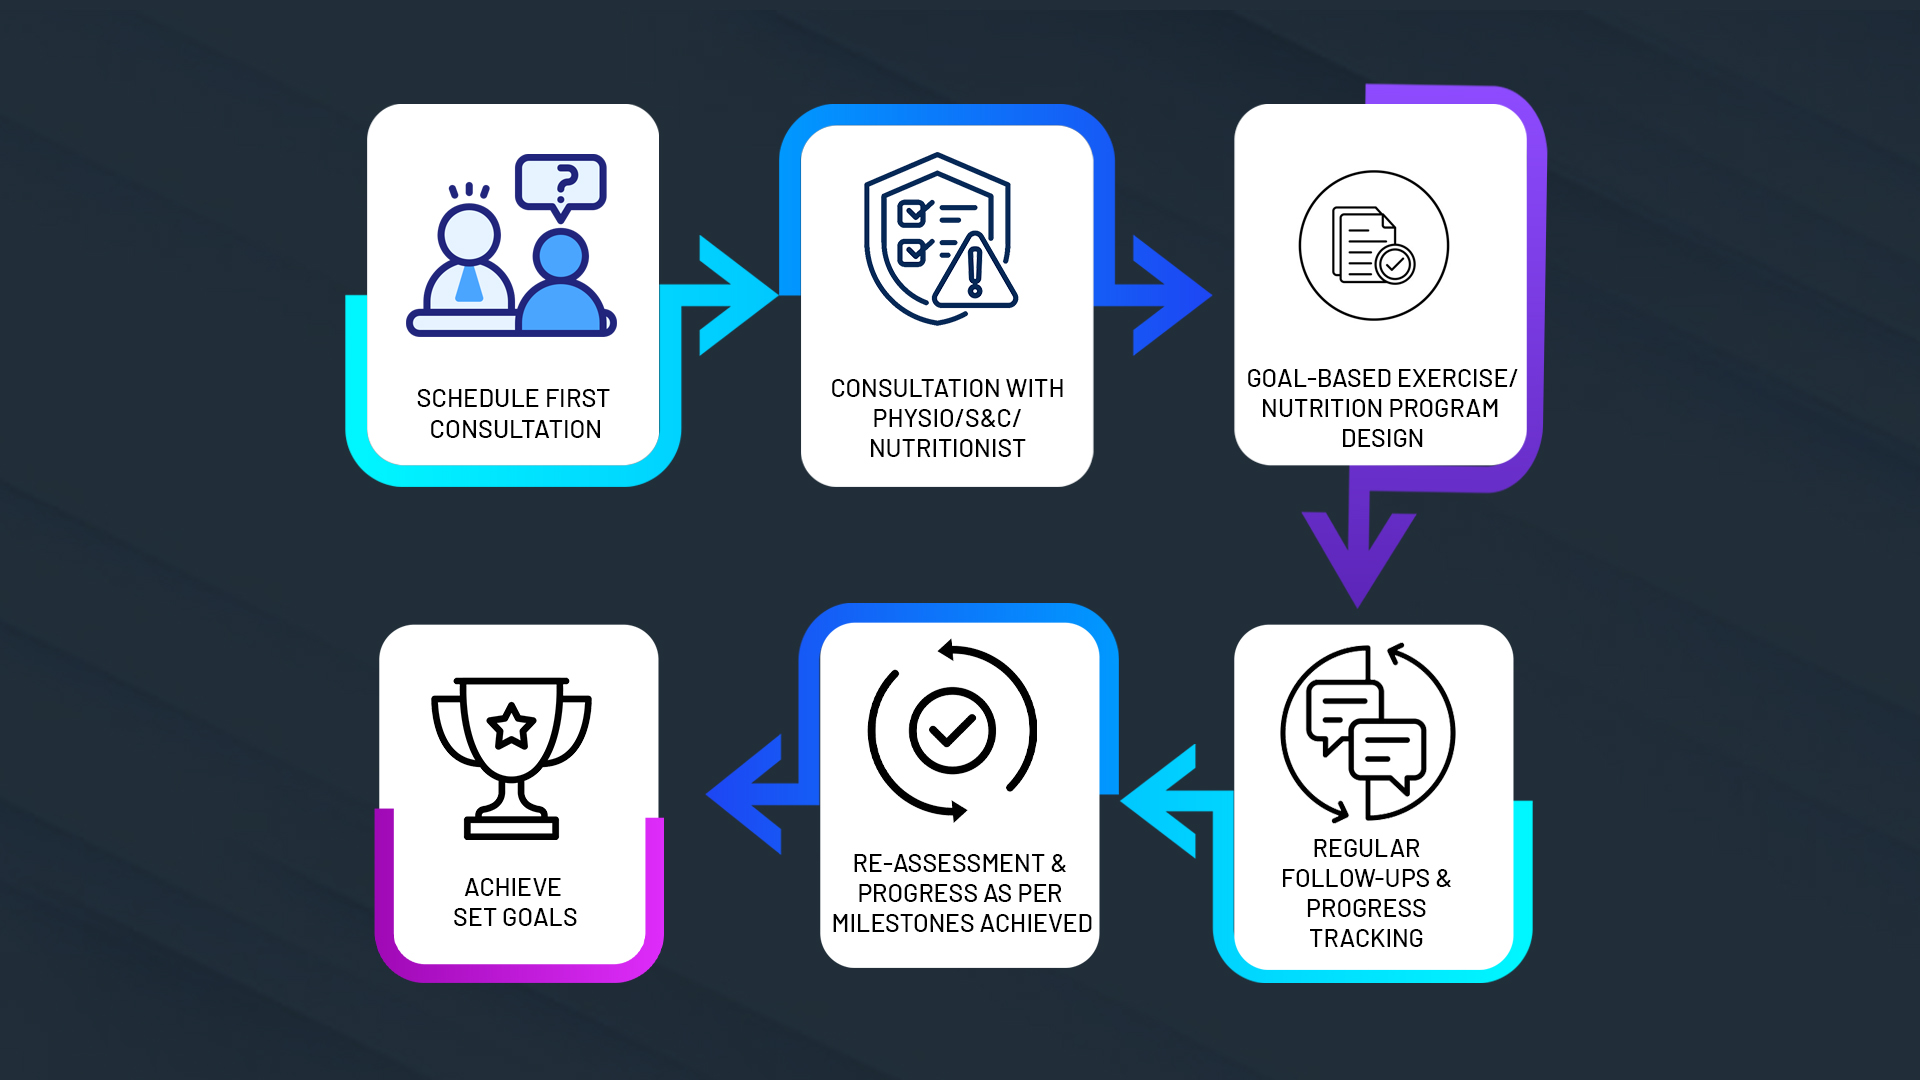
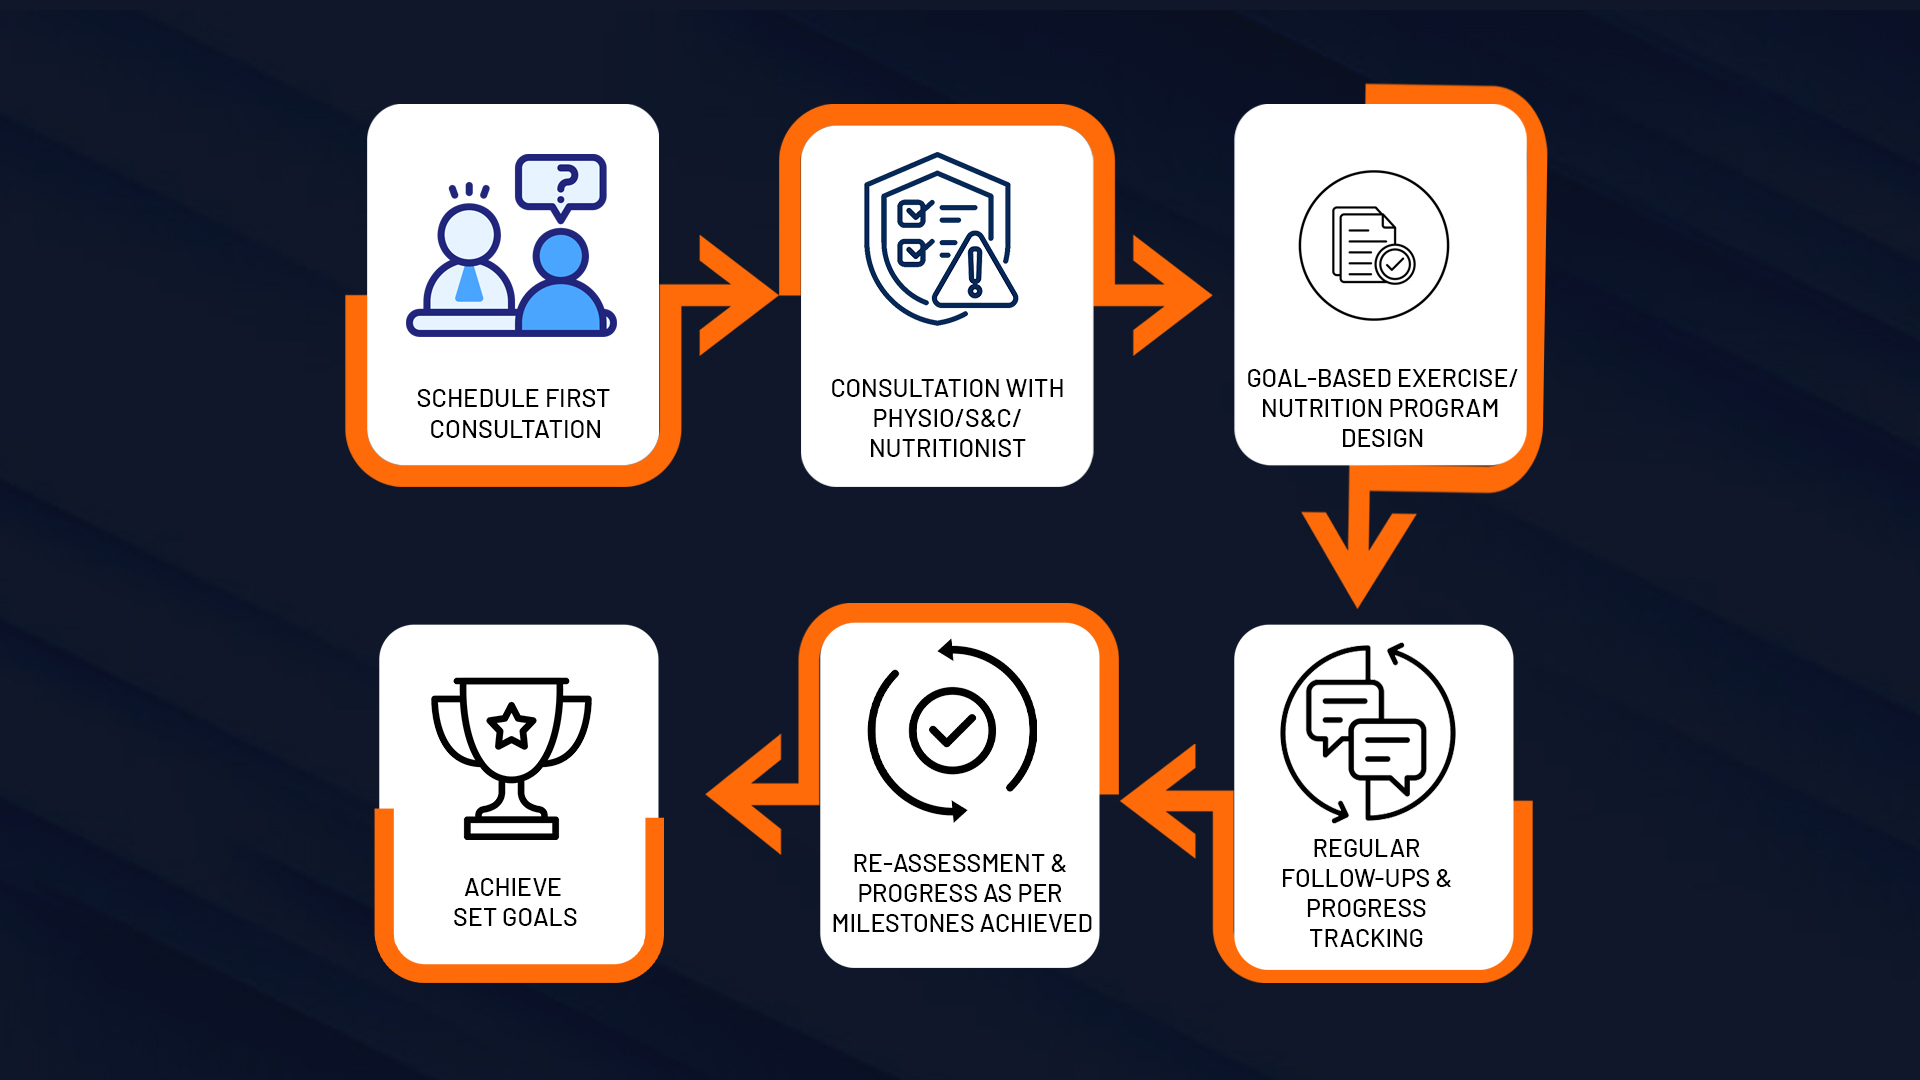
first

diff --git a/corporate-wellness.html b/corporate-wellness.html
@@ -131,24 +131,24 @@
     }
 
     #clients .clients-track>span {
-      min-width: 150px !important;
-      padding-top: 0.6rem !important;
-      padding-bottom: 0.6rem !important;
+      min-width: 230px !important;
+      padding-top: 1.05rem !important;
+      padding-bottom: 1.05rem !important;
       border-right-width: 0 !important;
     }
 
     #clients .clients-track img {
-      height: 2.6rem !important;
+      height: 4.2rem !important;
     }
 
     @media (min-width: 640px) {
       #clients .clients-track>span {
-        min-width: 205px !important;
-        padding: 0.85rem 2rem !important;
+        min-width: 340px !important;
+        padding: 1.4rem 3rem !important;
       }
 
       #clients .clients-track img {
-        height: 3.6rem !important;
+        height: 6rem !important;
       }
     }
 
@@ -462,21 +462,21 @@
       <div class="relative z-10 mx-auto w-full max-w-[1280px]">
         <div class="grid w-full min-w-0 items-center justify-items-center gap-8 text-center lg:gap-10">
 
-          <div class="w-full max-w-[760px] min-w-0 rounded-2xl bg-[rgba(10,14,30,0.42)] px-3 py-4 text-center backdrop-blur-[1px] sm:bg-transparent sm:px-0 sm:py-0 sm:backdrop-blur-0">
-            <h1 class="mb-2 text-[clamp(1.15rem,5.2vw,1.9rem)] font-extrabold uppercase leading-[1.2] tracking-[0.02em] text-white sm:text-[clamp(1.3rem,2.6vw,1.9rem)]">
+          <div class="w-full max-w-[860px] min-w-0 rounded-2xl bg-[rgba(10,14,30,0.42)] px-4 py-5 text-center backdrop-blur-[1px] sm:bg-transparent sm:px-0 sm:py-0 sm:backdrop-blur-0">
+            <h1 class="mb-1 mx-auto max-w-[760px] text-[clamp(1.8rem,4vw,3.2rem)] font-extrabold leading-[0.9] tracking-[-0.02em] text-white drop-shadow-[0_2px_18px_rgba(0,0,0,0.3)]">
               <span class="brand-word text-white">PREHAB</span><br>
-              <span class="text-primary">Corporate Health &amp; Wellness</span>
+              <span class="mt-2 block font-normal text-[#FE6B09] whitespace-nowrap">Corporate Health &amp; Wellness</span>
             </h1>
-            <p class="mx-auto mb-5 max-w-[620px] text-[0.82rem] font-medium leading-[1.45] text-white drop-shadow-[0_1px_10px_rgba(0,0,0,0.35)] sm:text-[0.9rem]">
+            <p class="mx-auto mb-6 max-w-[760px] text-[1.02rem] leading-[1.6] text-white/90 drop-shadow-[0_1px_12px_rgba(22,4,4,0.25)] sm:text-[1.08rem]">
               <span class="brand-word font-bold tracking-wide text-white">PREHAB</span> partners with organisations that want more than a brochure programme — culture change, healthier bodies, and teams that feel ready for the work ahead.
             </p>
             <div class="flex flex-col items-center justify-center gap-3 sm:flex-row sm:gap-4">
               <a href="tel:+918867205650"
-                class="inline-flex w-full max-w-[320px] min-h-[52px] items-center justify-center rounded-full bg-primary px-6 text-[0.95rem] font-bold text-white shadow-glow transition hover:-translate-y-[2px] hover:bg-primaryDark sm:w-auto">
+                class="inline-flex w-full max-w-[360px] min-h-[58px] items-center justify-center rounded-full bg-primary px-8 text-[1.05rem] font-bold text-white shadow-glow transition hover:-translate-y-[2px] hover:bg-primaryDark sm:w-auto">
                 Call +91 88672 05650
               </a>
               <a href="#what-is"
-                class="inline-flex w-full max-w-[320px] min-h-[52px] items-center justify-center rounded-full border border-white/40 bg-white/10 px-6 text-[0.95rem] font-bold text-white backdrop-blur-sm transition hover:bg-white/20 sm:w-auto">
+                class="inline-flex w-full max-w-[360px] min-h-[58px] items-center justify-center rounded-full border border-white/40 bg-white/10 px-8 text-[1.05rem] font-bold text-white backdrop-blur-sm transition hover:bg-white/20 sm:w-auto">
                 Learn how the programme works
               </a>
             </div>
@@ -622,53 +622,64 @@
     </section>
 
     <!-- PREHAB advantage -->
-    <section id="advantage" class="border-y border-slate-200 bg-white py-14 text-dark md:py-20">
-      <div class="mx-auto max-w-[1200px] px-5">
+    <section id="advantage" class="relative overflow-hidden border-y border-slate-200 bg-[#f8fafc] py-14 text-dark md:py-20">
+      <div class="absolute inset-0 bg-cover bg-center opacity-[0.14]" style="background-image: url('wellnessimg/aboutimg.png');" aria-hidden="true"></div>
+      <div class="absolute inset-0 bg-[linear-gradient(180deg,rgba(248,250,252,0.92)_0%,rgba(248,250,252,0.98)_100%)]" aria-hidden="true"></div>
+      <div class="relative z-10 mx-auto max-w-[1200px] px-5">
         <h2 class="text-center text-[clamp(1.65rem,3.5vw,2.35rem)] font-extrabold text-dark">
           The <span class="brand-word text-primary">PREHAB</span> advantage
         </h2>
-        <p class="mx-auto mt-3 max-w-[680px] text-center text-[0.88rem] text-slate-600">
+        <p class="mx-auto mt-3 max-w-[760px] text-center text-[0.92rem] leading-relaxed text-slate-600">
           Real outcomes in a table-style view designed for corporate decision-makers.
         </p>
-        <div class="mx-auto mt-8 grid max-w-[1240px] grid-cols-1 overflow-hidden rounded-2xl border border-white/20 bg-[#130E22] sm:grid-cols-2 lg:grid-cols-4">
-          <article class="advantage-card min-h-[170px] border-b border-white/15 bg-cover bg-center p-6 sm:min-h-[190px] sm:border-r lg:border-b lg:p-7"
-            style="background-image: linear-gradient(rgba(8,10,25,0.78), rgba(8,10,25,0.78)), url('wellnessimg/hero.png');">
-            <p class="text-[2rem] font-extrabold leading-none text-white sm:text-[2.3rem]">40%</p>
-            <h3 class="mt-3 text-[1rem] font-bold text-white">Increased productivity</h3>
-            <p class="mt-1 text-[0.86rem] leading-relaxed text-white/75">Sharper focus and steadier energy throughout the workday.</p>
+
+        <div class="mt-8 grid items-stretch gap-5 lg:grid-cols-[0.95fr_1.05fr]">
+          <article class="flex h-full items-center rounded-3xl bg-cover bg-center p-7 text-white shadow-[0_16px_36px_rgba(15,23,42,0.28)] md:p-9"
+            style="background-image: linear-gradient(rgba(8,10,25,0.76), rgba(8,10,25,0.76)), url('wellnessimg/hero.png');">
+            <div>
+              <div class="inline-block rounded-xl border border-white/12 bg-[rgba(30,41,59,0.58)] px-4 py-3 shadow-[inset_0_1px_0_rgba(255,255,255,0.06)] backdrop-blur-sm">
+                <p class="text-[2.1rem] font-extrabold leading-none text-primary sm:text-[2.35rem]">40%</p>
+                <p class="mt-1 text-[0.88rem] font-extrabold uppercase leading-[1.1] tracking-[0.06em] text-white/95">Increased<br>Productivity</p>
+              </div>
+              <p class="mt-2 max-w-[560px] text-[1rem] leading-relaxed text-white/85">
+                Sharper focus and steadier energy throughout the workday.
+              </p>
+            </div>
           </article>
-          <article class="advantage-card min-h-[170px] border-b border-white/15 p-6 sm:min-h-[190px] lg:border-r lg:border-b lg:p-7">
-            <p class="text-[1.8rem] font-extrabold leading-none text-primary sm:text-[2rem]">Significant</p>
-            <h3 class="mt-3 text-[1rem] font-bold text-white">Reduced absenteeism</h3>
-            <p class="mt-1 text-[0.86rem] leading-relaxed text-white/75">Fewer injury and illness episodes improve attendance stability.</p>
-          </article>
-          <article class="advantage-card min-h-[170px] border-b border-white/15 p-6 sm:min-h-[190px] sm:border-r lg:border-b lg:p-7">
-            <p class="text-[0.74rem] font-semibold uppercase tracking-[0.16em] text-primary/90">Trusted care</p>
-            <h3 class="mt-3 text-[1rem] font-bold text-white">Proven excellence</h3>
-            <p class="mt-1 text-[0.86rem] leading-relaxed text-white/75"><span class="brand-word font-bold text-white">PREHAB</span> Clinics brings 40+ years of combined clinical experience.</p>
-          </article>
-          <article class="advantage-card min-h-[170px] border-b border-white/15 p-6 sm:min-h-[190px] lg:border-b lg:p-7">
-            <p class="text-[0.74rem] font-semibold uppercase tracking-[0.16em] text-primary/90">Performance view</p>
-            <h3 class="mt-3 text-[1rem] font-bold text-white">Measurable ROI</h3>
-            <p class="mt-1 text-[0.86rem] leading-relaxed text-white/75">Lower healthcare cost burden with stronger workforce output.</p>
-          </article>
-          <article class="advantage-card min-h-[170px] border-b border-white/15 p-6 sm:min-h-[190px] sm:border-r sm:border-b-0 lg:border-r lg:p-7">
-            <p class="text-[0.74rem] font-semibold uppercase tracking-[0.16em] text-primary/90">People impact</p>
-            <h3 class="mt-3 text-[1rem] font-bold text-white">Enhanced morale &amp; loyalty</h3>
-            <p class="mt-1 text-[0.86rem] leading-relaxed text-white/75">Better employee care strengthens engagement and retention.</p>
-          </article>
-          <article class="advantage-card min-h-[170px] border-b border-white/15 bg-cover bg-center p-6 sm:col-span-2 sm:min-h-[190px] sm:border-b-0 lg:col-span-2 lg:border-r lg:p-7"
-            style="background-image: linear-gradient(rgba(20,18,40,0.72), rgba(20,18,40,0.72)), url('wellnessimg/aboutimg.png');">
-            <p class="text-[0.74rem] font-semibold uppercase tracking-[0.16em] text-white/80">Premium outcome</p>
-            <h3 class="mt-3 text-[1.25rem] font-extrabold text-white sm:text-[1.4rem]">100% Customized Programs</h3>
-            <p class="mt-2 max-w-[460px] text-[0.9rem] leading-relaxed text-white/90">Tailored to your organization needs and aligned with your company culture.</p>
-          </article>
-          <article class="advantage-card min-h-[170px] bg-cover bg-center p-6 sm:min-h-[190px] sm:border-r lg:p-7"
-            style="background-image: linear-gradient(rgba(7,12,28,0.76), rgba(7,12,28,0.76)), url('wellnessimg/herosection.jpg');">
-            <p class="text-[0.74rem] font-semibold uppercase tracking-[0.16em] text-primary/90">Workforce health</p>
-            <h3 class="mt-3 text-[1rem] font-bold text-white">Resilient workforce</h3>
-            <p class="mt-1 text-[0.86rem] leading-relaxed text-white/75">A fitter team collaborates better and scales with less downtime.</p>
-          </article>
+
+          <div class="grid gap-5 sm:grid-cols-2">
+            <article class="advantage-card rounded-2xl border border-[#e2e8f0] bg-cover bg-center p-6 text-white shadow-sm"
+              style="background-image: linear-gradient(rgba(15,23,42,0.72), rgba(15,23,42,0.72)), url('wellnessimg/hero.png');">
+              <p class="text-[1.8rem] font-extrabold leading-none text-primary sm:text-[2rem]">Significant</p>
+              <h3 class="mt-2 text-[1.1rem] font-extrabold text-white">Reduced absenteeism</h3>
+              <p class="mt-2 text-[0.9rem] leading-relaxed text-white/85">Fewer injury and illness episodes improve attendance stability.</p>
+            </article>
+            <article class="advantage-card rounded-2xl border border-[#e2e8f0] bg-cover bg-center p-6 text-white shadow-sm"
+              style="background-image: linear-gradient(rgba(15,23,42,0.72), rgba(15,23,42,0.72)), url('wellnessimg/aboutimg.png');">
+              <p class="text-[0.72rem] font-semibold uppercase tracking-[0.16em] text-primary">Trusted care</p>
+              <h3 class="mt-2 text-[1.1rem] font-extrabold text-white">Proven excellence</h3>
+              <p class="mt-2 text-[0.9rem] leading-relaxed text-white/85"><span class="brand-word font-bold text-white">PREHAB</span> Clinics brings 40+ years of combined clinical experience.</p>
+            </article>
+            <article class="advantage-card rounded-2xl border border-[#e2e8f0] bg-cover bg-center p-6 text-white shadow-sm"
+              style="background-image: linear-gradient(rgba(15,23,42,0.72), rgba(15,23,42,0.72)), url('wellnessimg/herosection.jpg');">
+              <p class="text-[0.72rem] font-semibold uppercase tracking-[0.16em] text-primary">Performance view</p>
+              <h3 class="mt-2 text-[1.1rem] font-extrabold text-white">Measurable ROI</h3>
+              <p class="mt-2 text-[0.9rem] leading-relaxed text-white/85">Lower healthcare cost burden with stronger workforce output.</p>
+            </article>
+            <article class="advantage-card rounded-2xl border border-[#ffe1cc] bg-[#fff3eb] p-6 shadow-sm">
+              <p class="text-[0.72rem] font-semibold uppercase tracking-[0.16em] text-primary">People impact</p>
+              <h3 class="mt-2 text-[1.1rem] font-extrabold text-dark">Enhanced morale &amp; loyalty</h3>
+              <p class="mt-2 text-[0.9rem] leading-relaxed text-slate-600">Better employee care strengthens engagement and retention.</p>
+            </article>
+          </div>
+        </div>
+
+        <div class="mt-5 rounded-2xl border border-[#0f172a] bg-[#0f172a] p-6 text-white shadow-sm md:p-7">
+          <p class="text-[1.8rem] font-extrabold leading-none text-primary sm:text-[2rem]">Premium outcome</p>
+          <h3 class="mt-3 text-[1.35rem] font-extrabold text-white sm:text-[1.5rem]">100% Customized Programs</h3>
+          <p class="mt-2 max-w-[820px] text-[0.92rem] leading-relaxed text-white/85">
+            Tailored to your organization needs and aligned with your company culture.
+          </p>
         </div>
       </div>
     </section>
